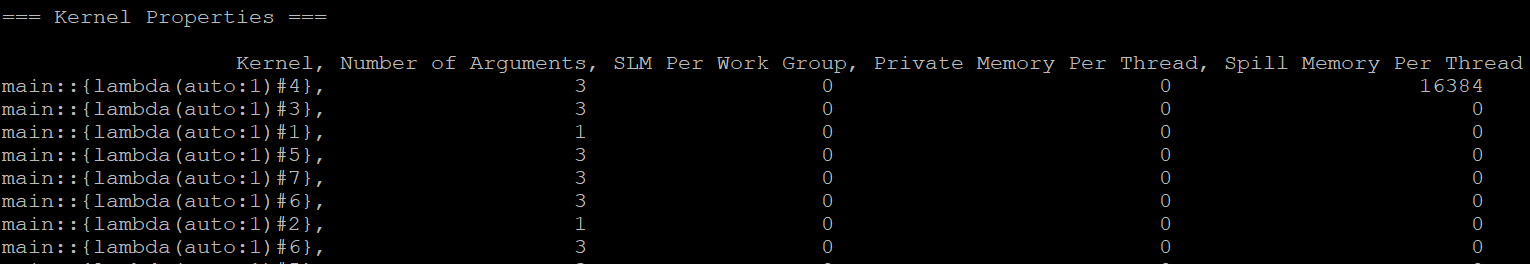
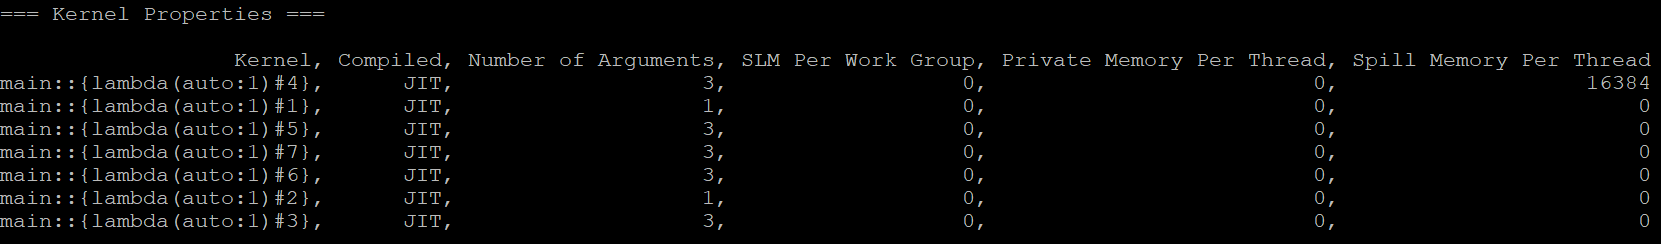
Show kernel compilation mode (#88)
* Suppress Coverity complaints

* Using std::move() for performance

* Suppress one Coverity false positive

* Suppress Coverity false positive

* Make error messages more meaningful

* Show JIT/AOT compiled mode

* More meaningful error messages

* Show kernel compilation mode

* Show kernel compilcation mode

diff --git a/tools/unitrace/src/levelzero/ze_collector.h b/tools/unitrace/src/levelzero/ze_collector.h
@@ -926,6 +926,7 @@ struct ZeKernelCommandProperties {
   uint32_t spill_mem_size_;	// spill memory size for each thread
   ZeKernelGroupSize group_size_;	// group size
   ZeKernelCommandType type_;
+  bool aot_;		// AOT or JIT
   std::string name_;	// kernel or command name
 };
 
@@ -935,8 +936,14 @@ static std::map<uint64_t, ZeKernelCommandProperties> *kernel_command_properties_
 static std::map<ze_kernel_handle_t, ZeKernelCommandProperties> *active_kernel_properties_ = nullptr;
 static std::map<uint64_t, ZeKernelCommandProperties> *active_command_properties_ = nullptr;
 
+struct ZeModule {
+  ze_device_handle_t device_;
+  size_t size_;
+  bool aot_;	// AOT or JIT
+};
+
 static std::shared_mutex modules_on_devices_mutex_;
-static std::map<ze_module_handle_t, std::pair<ze_device_handle_t, size_t>> modules_on_devices_; //module to <device, native binary size> map
+static std::map<ze_module_handle_t, ZeModule> modules_on_devices_; //module to ZeModule map
 
 struct ZeDevice {
   ze_device_handle_t device_;
@@ -1219,14 +1226,13 @@ class ZeCollector {
       
       str = "\n\n=== Kernel Properties ===\n\n";
       str = str + std::string(std::max(int(max_name_size - sizeof("Kernel") + 1), 0), ' ') +
-        "Kernel,  Number of Arguments,  SLM Per Work Group,  Private Memory Per Thread,  Spill Memory Per Thread\n";
+        "Kernel, Compiled, Number of Arguments, SLM Per Work Group, Private Memory Per Thread, Spill Memory Per Thread\n";
       correlator_->Log(str);
   
       i = -1; 
-      kernel_command_properties_mutex_.lock_shared();
       for (auto& it : sorted_list) {
         ++i;
-        const auto kit = kernel_command_properties_->find(it.first.kernel_command_id_);
+        auto kit = kernel_command_properties_->find(it.first.kernel_command_id_);
         if (kit == kernel_command_properties_->end()) {
           continue;
         }
@@ -1235,18 +1241,19 @@ class ZeCollector {
         }
         
         str = std::string(std::max(int(max_name_size - knames[i].length()), 0), ' ');
-        str = str + knames[i] + ", " +
+        str = str + knames[i] + "," +
+          std::string(sizeof("Compiled") - sizeof("AOT") + 1, ' ') +
+          (kit->second.aot_ ? "AOT" : "JIT") + "," +
           std::string(std::max(int(sizeof("Number of Arguments") - std::to_string(kit->second.nargs_).length()), 0), ' ') +
-          std::to_string(kit->second.nargs_) + ", " +
+          std::to_string(kit->second.nargs_) + "," +
           std::string(std::max(int(sizeof("SLM Per Work Group") - std::to_string(kit->second.slmsize_).length()), 0), ' ') + 
-          std::to_string(kit->second.slmsize_) + ", " +
+          std::to_string(kit->second.slmsize_) + "," +
           std::string(std::max(int(sizeof("Private Memory Per Thread") - std::to_string(kit->second.private_mem_size_).length()), 0), ' ') + 
-          std::to_string(kit->second.private_mem_size_) + ", " +
+          std::to_string(kit->second.private_mem_size_) + "," +
           std::string(std::max(int(sizeof("Spill Memory Per Thread") - std::to_string(kit->second.spill_mem_size_).length()), 0), ' ') +
           std::to_string(kit->second.spill_mem_size_) + "\n";
         correlator_->Log(str);
       }
-      kernel_command_properties_mutex_.unlock_shared();
     }
 
     global_device_time_stats_mutex_.unlock();
@@ -3846,8 +3853,15 @@ class ZeCollector {
       if (zeModuleGetNativeBinary(mod, &binary_size, nullptr) != ZE_RESULT_SUCCESS) {
         binary_size = (size_t)(-1);
       }
+
+      ZeModule m;
+      
+      m.device_ = device;
+      m.size_ = binary_size;
+      m.aot_ = (*(params->pdesc))->format;
+    
       modules_on_devices_mutex_.lock();
-      modules_on_devices_.insert({mod, {device, binary_size}});
+      modules_on_devices_.insert({mod, std::move(m)});
       modules_on_devices_mutex_.unlock();
     }
   }
@@ -3868,11 +3882,13 @@ class ZeCollector {
       ze_module_handle_t mod = *(params->phModule);
       ze_device_handle_t device = nullptr;
       size_t module_binary_size = (size_t)(-1);
+      bool aot = false;
       modules_on_devices_mutex_.lock_shared();
       auto mit = modules_on_devices_.find(mod);
       if (mit != modules_on_devices_.end()) {
-        device = mit->second.first; 
-        module_binary_size = mit->second.second;
+        device = mit->second.device_; 
+        module_binary_size = mit->second.size_;
+        aot = mit->second.aot_;
       }
       modules_on_devices_mutex_.unlock_shared();
 
@@ -3895,6 +3911,7 @@ class ZeCollector {
       ZeKernelCommandProperties desc;
 
       desc.type_ = KERNEL_COMMAND_TYPE_COMPUTE;
+      desc.aot_ = aot;
 
       ze_result_t status;
 

diff --git a/tools/unitrace/src/version.h b/tools/unitrace/src/version.h
@@ -1,7 +1,7 @@
 #ifndef PTI_TOOLS_UNITRACE_VERSION_H_
 #define PTI_TOOLS_UNITRACE_VERSION_H_
 
-#define UNITRACE_VERSION	"2.0.1"
+#define UNITRACE_VERSION	"2.0.2"
 
 std::string get_version();
 

diff --git a/tools/unitrace/README.md b/tools/unitrace/README.md
@@ -145,6 +145,8 @@ The **"Private Memory Per Thread"** is the private memory allocated for each thr
 
 The **"Spill Memory Per Thread"** is the memory used for register spilled for each thread in bytes. A non-zero value indicates that one or more thread private variables are allocated in registers but are later spilled to memory.
 
+In addition, the **"Compiled"** indicates the kernel compilation mode: just-in-time(JIT) or ahead-of-time(AOT). 
+
 By default, the kernel timing is summarized regardless of shapes. In case the kernel has different shapes, using **-v** along with **-d** is strongly recommended:
 
 ![Device Timing!](/tools/unitrace/doc/images/device-timing.png)
